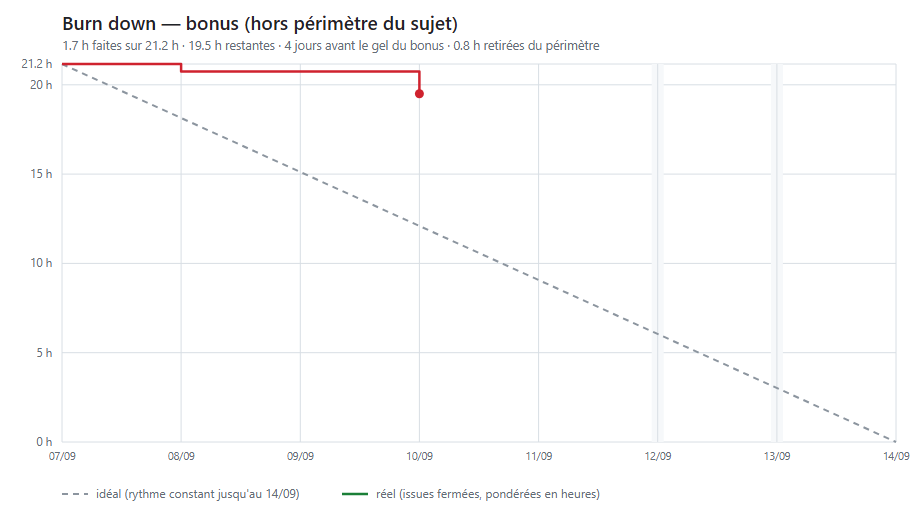
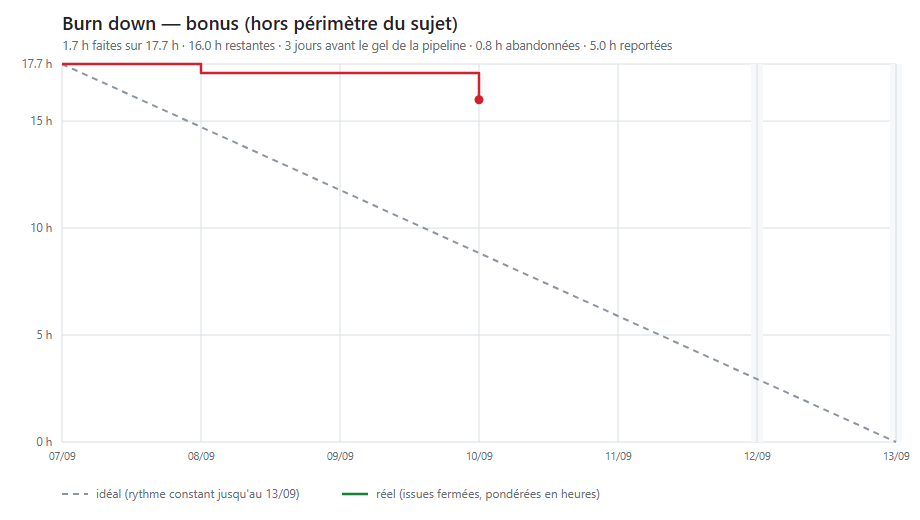
chore: recale le burn down bonus sur le tri du 10/09
Le lot 14 (RBAC) entre dans le sprint, le lot 11 en sort : ses issues
portent le label apres-soutenance et ne comptent ni comme faites ni comme
restantes. L'echeance du bonus passe au 13/09, date du gel de la pipeline.
Le sous-titre distingue les heures abandonnees des heures reportees.

diff --git a/scripts/burndown.py b/scripts/burndown.py
@@ -29,9 +29,9 @@ CHARTS = [
     {
         "nom": "burndown-bonus",
         "titre": "Burn down — bonus (hors périmètre du sujet)",
-        "echeance": "le gel du bonus",
+        "echeance": "le gel de la pipeline",
         "start": date(2026, 9, 7),
-        "end": date(2026, 9, 14),
+        "end": date(2026, 9, 13),
         "lots": [
             ("8 - CRUD",       47, 52, 4.5),
             ("9 - Frontend",   53, 57, 4.0),
@@ -39,6 +39,7 @@ CHARTS = [
             ("11 - K8s multi", 63, 69, 5.0),
             ("12 - Sécurité",  70, 74, 2.5),
             ("13 - Notif riche", 75, 80, 2.5),
+            ("14 - RBAC",      85, 88, 1.5),
         ],
     },
 ]
@@ -69,7 +70,7 @@ def gh_bin():
 def issues():
     out = subprocess.run(
         [gh_bin(), "issue", "list", "--repo", REPO, "--state", "all",
-         "--limit", "200", "--json", "number,closedAt,state,stateReason"],
+         "--limit", "200", "--json", "number,closedAt,state,stateReason,labels"],
         capture_output=True, text=True, encoding="utf-8", check=True,
     ).stdout
     return json.loads(out)
@@ -108,7 +109,7 @@ def y(v, total):
     return M["t"] + PLOT_H * (1 - v / total) if total else M["t"] + PLOT_H
 
 
-def svg(cfg, total, serie, abandon=0.0):
+def svg(cfg, total, serie, abandon=0.0, reporte=0.0):
     start, end = cfg["start"], cfg["end"]
     s = [
         f'<svg xmlns="http://www.w3.org/2000/svg" width="{W}" height="{H}" '
@@ -121,7 +122,8 @@ def svg(cfg, total, serie, abandon=0.0):
     reste = serie[-1][1] if serie else total
     fait = total - reste
     jours = (end - date.today()).days
-    retire = f' · {abandon:.1f} h retirées du périmètre' if abandon else ''
+    retire = ((f' · {abandon:.1f} h abandonnées' if abandon else '')
+              + (f' · {reporte:.1f} h reportées' if reporte else ''))
     s.append(
         f'<text x="{M["l"]}" y="50" font-size="12.5" fill="{MUTED}">'
         f'{fait:.1f} h faites sur {total:.1f} h · {reste:.1f} h restantes · '
@@ -213,17 +215,20 @@ def main():
     # une issue fermee "not planned" sort du perimetre : elle ne doit pas
     # compter comme du travail fait.
     abandonnees = {i["number"] for i in data if i.get("stateReason") == "NOT_PLANNED"}
+    reportees = {i["number"] for i in data
+                 if any(l["name"] == "apres-soutenance" for l in i.get("labels", []))}
 
     for cfg in CHARTS:
         tous = poids_par_issue(cfg["lots"])
-        poids = {n: p for n, p in tous.items() if n not in abandonnees}
-        abandon = sum(tous.values()) - sum(poids.values())
+        poids = {n: p for n, p in tous.items() if n not in abandonnees | reportees}
+        abandon = sum(p for n, p in tous.items() if n in abandonnees)
+        reporte = sum(p for n, p in tous.items() if n in reportees - abandonnees)
         total, serie = serie_reelle(data, poids, cfg["start"], cfg["end"])
 
         svg_path = os.path.join(docs, cfg["nom"] + ".svg")
         png_path = os.path.join(docs, cfg["nom"] + ".png")
         with open(svg_path, "w", encoding="utf-8") as f:
-            f.write(svg(cfg, total, serie, abandon))
+            f.write(svg(cfg, total, serie, abandon, reporte))
         ok = en_png(svg_path, png_path)
 
         reste = serie[-1][1] if serie else total
